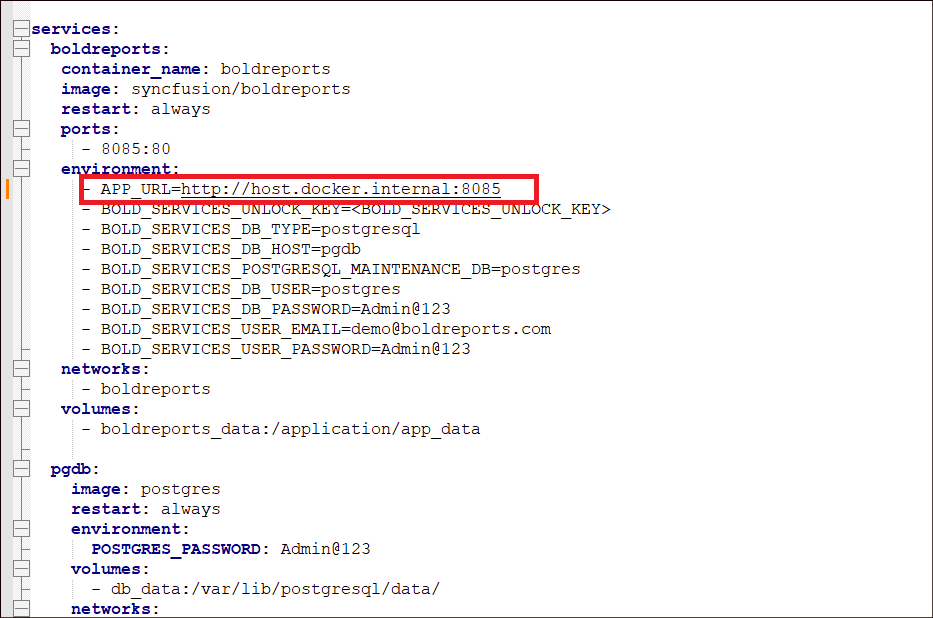
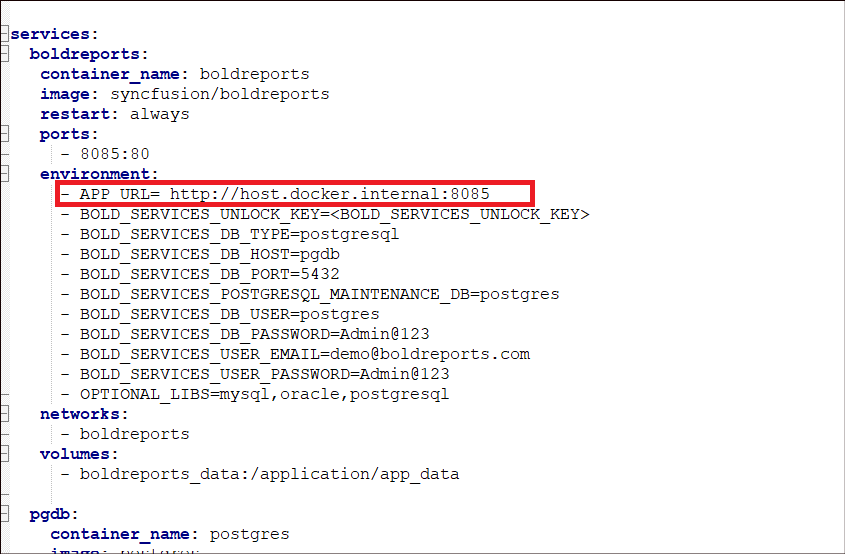
Include optional libs changes

Changed region(s): [[0.0, 0.0, 0.7077, 1.0], [0.9846, 0.9819, 1.0, 1.0], [0.9846, 0.0, 1.0, 0.0307]]

diff --git a/README.md b/README.md
@@ -70,21 +70,24 @@ The above Bold Reports image can be deployed using Docker or Docker Compose. In 
    If you are using the IP address for the Base URL, make sure you are using the public IP of the machine instead of internal IP or local IP address. Applications can communicate with each other using the public IP alone. Host machine IP will not be accessible inside the application container.
    Use http://host.docker.internal instead of http://localhost. Host machine localhost DNS will not be accessible inside the container. So, docker desktop provides `host.docker.internal` and `gateway.docker.internal` DNS for communication between docker applications and host machine. Please make sure that the host.docker.internal DNS has your IPv4 address mapped in your hosts file on Windows(C:\Windows\System32\drivers\etc\hosts) or Linux (/etc/hosts).
    Provide the HTTP or HTTPS scheme for APP_BASE_URL value.
-   You can also change the Port number other than 8085
+   You can also change the Port number other than 8085.
 
   ![docker-single-pre-conf](docs/images/single-container-pre-app-url.png)
 
-  3. Fill the BOLD_SERVICES_UNLOCK_KEY value, and save it. You can refer to [this](https://support.boldreports.com/kb/article/13271/how-do-i-get-my-offline-license-key-from-our-bold-reports-account-page) KB document to obtain the offline Bold Reports unlock key.
+  3. Fill the BOLD_SERVICES_UNLOCK_KEY value, and save it. You can refer to [this](https://support.boldreports.com/kb/article/13271/how-do-i-get-my-offline-license-key-from-our-bold-reports-account-page) KB document to obtain the offline Bold Reports unlock key. 
 
- ![docker-compose-variable](docs/images/docker-compose-variable.png)
+      ![docker-compose-variable](docs/images/docker-compose-variable.png)
   
-  3. Run the command below. This command will start the Bold Reports and Postgres SQL containers and display the Bold Reports logs to provide information about the installation status of the Bold Reports application.
+  4. Fill the Environment Variables and optional library by refer [this](docs/environment-variable.md). 
+  
+  
+  5. Run the command below. This command will start the Bold Reports and Postgres SQL containers and display the Bold Reports logs to provide information about the installation status of the Bold Reports application.
      ```sh
      docker-compose up -d; docker-compose logs -f boldreports
      ```
      ![docker-compose-up](docs/images/docker-compose-up.png)
-
-  4. Now, access the Bold Reports application by entering the URL as `http://host.docker.internal:8085` or `http://host-ip:8085` in the browser. When opening this URL in the browser, it will configure the application startup in the background and display the page below within a few seconds. The default port number mentioned in the compose file is 8085. If you are making changes to the port number, then you need to use that port number for accessing the Bold Reports application.
+  
+  6. Now, access the Bold Reports application by entering the URL as `http://host.docker.internal:8085` or `http://host-ip:8085` in the browser. When opening this URL in the browser, it will configure the application startup in the background and display the page below within a few seconds. The default port number mentioned in the compose file is 8085. If you are making changes to the port number, then you need to use that port number for accessing the Bold Reports application.
 
      ![docker-startup](docs/images/docker-startup.png)
   
